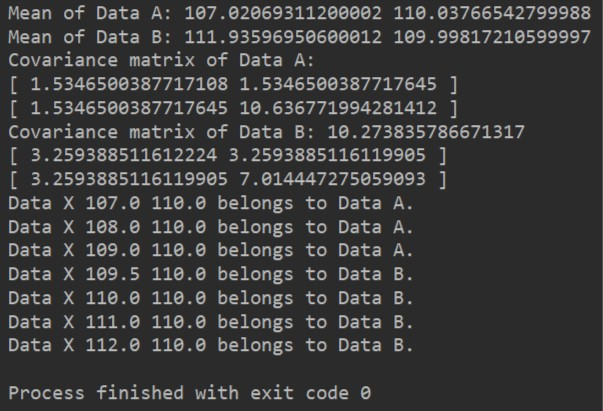
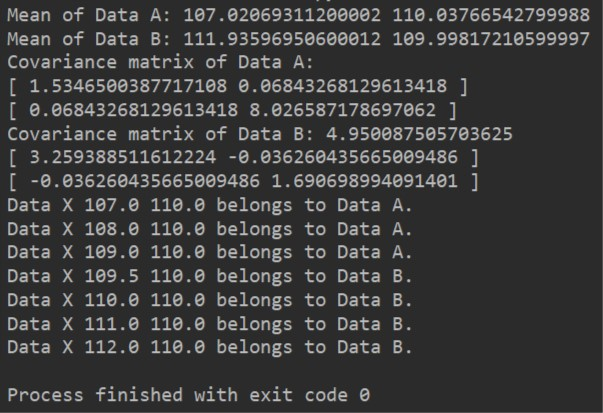
bayes modified.

Changed region(s): [[0.0, 0.0, 0.9851, 0.8759], [0.0, 0.9343, 1.0, 1.0]]

diff --git a/bayes.py b/bayes.py
@@ -21,9 +21,9 @@ def calculate_mean_and_variance(dataset):
     # 各属性のサンプルの分散を計算
     for i in dataset:
         k11 += (float(i[0]) - mean_x1) ** 2
-        k12 += (float(i[0]) - mean_x1) * (float(i[0]) - mean_x2)
-        k21 += (float(i[0]) - mean_x1) * (float(i[0]) - mean_x2)
-        k22 += (float(i[0]) - mean_x2) ** 2
+        k12 += (float(i[0]) - mean_x1) * (float(i[1]) - mean_x2)
+        k21 += (float(i[0]) - mean_x1) * (float(i[1]) - mean_x2)
+        k22 += (float(i[1]) - mean_x2) ** 2
 
     variance_x1 = k11 / 500
     variance_x2 = k22 / 500
@@ -63,8 +63,10 @@ if __name__ == '__main__':
     file = './data/data2-X.txt'
     predict = load_data(file)
 
-    data_a_mean_x1, data_a_mean_x2, data_a_variance_x1, data_a_variance_x2, data_a_variance_x3, data_a_variance_x4 = calculate_mean_and_variance(data_a)
-    data_b_mean_x1, data_b_mean_x2, data_b_variance_x1, data_b_variance_x2, data_b_variance_x3, data_b_variance_x4 = calculate_mean_and_variance(data_b)
+    data_a_mean_x1, data_a_mean_x2, data_a_variance_x1, data_a_variance_x2, data_a_variance_x3, data_a_variance_x4 = calculate_mean_and_variance(
+        data_a)
+    data_b_mean_x1, data_b_mean_x2, data_b_variance_x1, data_b_variance_x2, data_b_variance_x3, data_b_variance_x4 = calculate_mean_and_variance(
+        data_b)
 
     # 共分散行列を計算
     print('Mean of Data A:', data_a_mean_x1, data_a_mean_x2)
@@ -72,7 +74,7 @@ if __name__ == '__main__':
     print('Covariance matrix of Data A:')
     print('[', data_a_variance_x1, data_a_variance_x3, ']')
     print('[', data_a_variance_x4, data_a_variance_x2, ']')
-    print('Covariance matrix of Data B:', data_b_variance_x1+data_b_variance_x2)
+    print('Covariance matrix of Data B:', data_b_variance_x1 + data_b_variance_x2)
     print('[', data_b_variance_x1, data_b_variance_x3, ']')
     print('[', data_b_variance_x4, data_b_variance_x2, ']')
 
@@ -80,8 +82,10 @@ if __name__ == '__main__':
     p1 = 0.5
     p2 = 0.5
     for x in predict:
-        P_x1_data_a, P_x2_data_a = calculate_P_xi_c(data_a_mean_x1, data_a_mean_x2, data_a_variance_x1, data_a_variance_x2, x)
-        P_x1_data_b, P_x2_data_b = calculate_P_xi_c(data_b_mean_x1, data_b_mean_x2, data_b_variance_x1, data_b_variance_x2, x)
+        P_x1_data_a, P_x2_data_a = calculate_P_xi_c(data_a_mean_x1, data_a_mean_x2, data_a_variance_x1,
+                                                    data_a_variance_x2, x)
+        P_x1_data_b, P_x2_data_b = calculate_P_xi_c(data_b_mean_x1, data_b_mean_x2, data_b_variance_x1,
+                                                    data_b_variance_x2, x)
 
         # 事後確率を計算
         P_data_a = p1 * P_x1_data_a * P_x2_data_a
